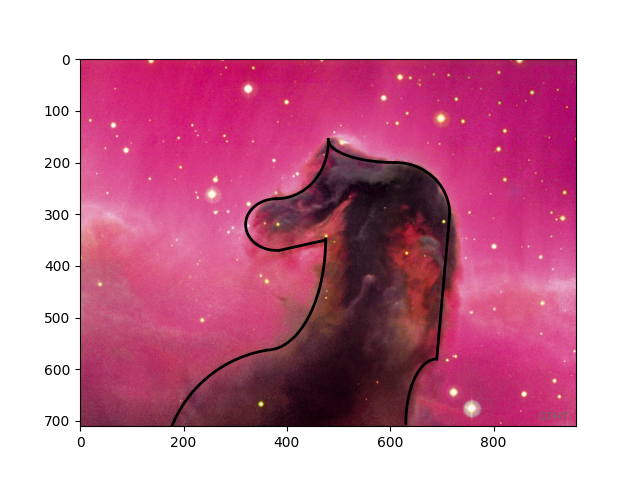
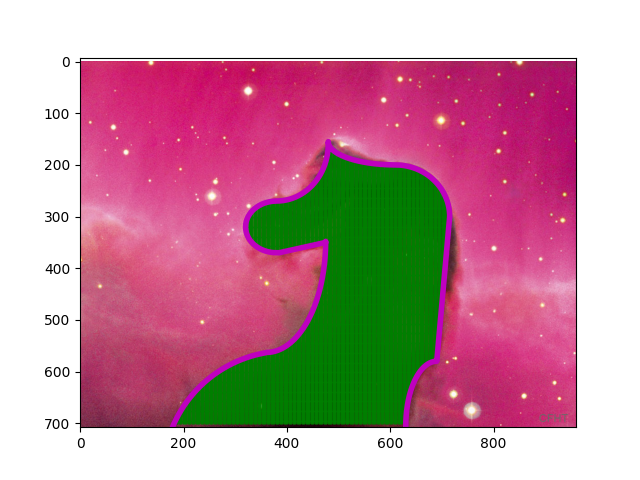
gjgjhgj

diff --git a/kffo.py b/kffo.py
@@ -1,55 +1,104 @@
-import matplotlib.pyplot as plt 
-import numpy as np 
- 
-img = plt.imread('H.jpg') 
-fig, ax = plt.subplots() 
-ax.imshow(img) 
- 
- 
-t = np.linspace(np.pi-np.pi/8, np.pi/1.8, 100) 
-x = 400 + 240 * np.cos(t) 
-y = 800 - 240 * np.sin(t) 
-ax.plot(x, y, '-', lw=2, color = 'k') 
- 
- 
-t =  np.linspace(3 * np.pi/2, 2 * np.pi, 200) 
-x = 360 + 115 * np.cos(t) 
-y = 348 - 215 * np.sin(t) 
-ax.plot(x, y, '-', lw=2, color = 'k') 
- 
- 
-x = [475, 385] 
-y = [350, 370] 
-ax.plot(x, y, '-', lw=2, color = 'k') 
- 
-t =  np.linspace(np.pi/2, 3 * np.pi/2, 200) 
-x = 380 + 60 * np.cos(t) 
-y = 320 - 50 * np.sin(t) 
-ax.plot(x, y, '-', lw=2, color = 'k') 
- 
-t =  np.linspace(3 * np.pi/2, 2 * np.pi, 200) 
-x = 380 + 100 * np.cos(t) 
-y = 160 - 110 * np.sin(t) 
-ax.plot(x, y, '-', lw=2, color = 'k') 
- 
-t =  np.linspace(np.pi, 3 * np.pi/2, 200) 
-x = 610 + 130 * np.cos(t) 
-y = 155 - 45 * np.sin(t) 
-ax.plot(x, y, '-', lw=2, color = 'k') 
- 
-t =  np.linspace(2 * np.pi, 5 * np.pi/2, 200) 
-x = 610 + 105 * np.cos(t) 
-y = 300 - 100 * np.sin(t) 
-ax.plot(x, y, '-', lw=2, color = 'k') 
- 
-x = [715, 690] 
-y = [300, 580] 
-ax.plot(x, y, '-', lw=2, color = 'k') 
- 
-t =  np.linspace(np.pi/2, np.pi,  200) 
-x = 690 + 60 * np.cos(t) 
-y = 705 - 125 * np.sin(t) 
-ax.plot(x, y, '-', lw=2, color = 'k') 
- 
- 
+import matplotlib.pyplot as plt
+import numpy as np
+from scipy import interpolate
+import shapely.geometry as geom
+
+img = plt.imread('H.jpg')
+fig, ax = plt.subplots()
+ax.imshow(img)
+
+t0 = np.linspace(np.pi-np.pi/8, np.pi/1.8, 100)
+x0 = 400 + 240 * np.cos(t0)
+y0 = 800 - 240 * np.sin(t0)
+ax.plot(x0, y0, '-', lw=2, color = 'k')
+
+
+t1 =  np.linspace(3 * np.pi/2, 2 * np.pi, 200)
+x1 = 360 + 115 * np.cos(t1)
+y1 = 348 - 215 * np.sin(t1)
+ax.plot(x1, y1, '-', lw=2, color = 'k')
+
+x = np.append(x0, x1)
+y = np.append(y0, y1)
+
+
+x2 = [475, 385]
+y2 = [350, 370]
+ax.plot(x2, y2, '-', lw=2, color = 'k')
+
+x = np.append(x, x2)
+y = np.append(y, y2)
+
+t3 =  np.linspace(3 * np.pi/2, np.pi/2, 200)
+x3 = 380 + 60 * np.cos(t3)
+y3 = 320 - 50 * np.sin(t3)
+ax.plot(x3, y3, '-', lw=2, color = 'k')
+
+x = np.append(x, x3)
+y = np.append(y, y3)
+
+t4 =  np.linspace (3 * np.pi/2, 2 * np.pi,200)
+x4 = 380 + 100 * np.cos(t4)
+y4 = 160 - 109.9 * np.sin(t4)
+ax.plot(x4, y4, '-', lw=2, color = 'k')
+
+x = np.append(x, x4)
+y = np.append(y, y4)
+
+t5 =  np.linspace( np.pi,  3 * np.pi/2,200)
+x5 = 610 + 130 * np.cos(t5)
+y5= 155 - 45 * np.sin(t5)
+ax.plot(x5, y5, '-', lw=2, color = 'k')
+
+x = np.append(x, x5)
+y = np.append(y, y5)
+
+t6 =  np.linspace( 5 * np.pi/2, 2 * np.pi,200)
+x6 = 610.05 + 105 * np.cos(t6)
+y6 = 300 - 100 * np.sin(t6)
+ax.plot(x6, y6, '-', lw=2, color = 'k')
+
+x = np.append(x, x6)
+y = np.append(y, y6)
+
+x7 = [715, 690]
+y7 = [300, 580]
+ax.plot(x7, y7, '-', lw=2, color = 'k')
+
+x = np.append(x, x7)
+y = np.append(y, y7)
+
+
+t8 =  np.linspace(np.pi/2, np.pi,  200)
+x8 = 690.05 + 60 * np.cos(t8)
+y8 = 705 - 125 * np.sin(t8)
+ax.plot(x8, y8, '-', lw=2, color = 'k')
+
+x = np.append(x, x8)
+y = np.append(y, y8)
+
+
+spline_coords, figure_spline_part = interpolate.splprep([x, y], s=0)
+figure_spline_part_manual = np.arange(0, 0.5, 0.01)
+spline_curve = interpolate.splev(figure_spline_part, spline_coords)
+
+curve_coords = []
+for i in range(len(spline_curve[0])):
+    curve_coords.append([spline_curve[0][i], spline_curve[1][i]])
+
+polygon = geom.Polygon(curve_coords)
+points_number_per_side = 400
+x_pictures_limits = [0, 1000]
+y_pictures_limits = [700, 0]
+
+for x_point_coord in np.linspace(*x_pictures_limits, points_number_per_side):
+    for y_point_coord in np.linspace(*y_pictures_limits, points_number_per_side):
+        p = geom.Point(x_point_coord, y_point_coord)
+        if p.within(polygon):
+            plt.plot(x_point_coord, y_point_coord, 'go', ms = 0.5)
+
+
+plt.plot(spline_curve[0], spline_curve[1], 'm', lw=4)
+plt.axis('equal')
+plt.ylim(700, 0)
 plt.savefig('horse.png')

diff --git a/lec_1_calarfields.py b/lec_1_calarfields.py
@@ -1,0 +1,63 @@
+import matplotlib.pyplot as plt
+import numpy as np
+from scipy import interpolate
+import shapely.geometry as geom
+
+
+phi = np.linspace(0, 2*np.pi, 100)
+R = 1
+array_x = R * np.cos(phi)
+array_y = R * np.sin(phi)
+
+spline_coords, figure_spline_part = interpolate.splprep([array_x, array_y], s=0)
+spline_curve = interpolate.splev(figure_spline_part, spline_coords)
+
+curve_coords = []
+for i in range(len(spline_curve[0])):
+    curve_coords.append([spline_curve[0][i], spline_curve[1][i]])
+
+polygon = geom.Polygon(curve_coords)
+points_numper_per_side = 100
+x_pictures_limits = [-1.0, 1.0]
+y_pictures_limits = [-1.0, 1.0]
+
+points_coords = []
+for x_point_coord in np.linspace(*x_pictures_limits, points_numper_per_side):
+    for y_point_coord in np.linspace(*y_pictures_limits, points_numper_per_side):
+        p = geom.Point(x_point_coord, y_point_coord)
+        if p.within(polygon):
+            points_coords.append(x_point_coord)
+            points_coords.append(y_point_coord)
+
+x_p = np.array(points_coords[0::2])
+y_p = np.array(points_coords[1::2])
+
+def bell_function(x, y, intensity=1, dec_rate=[0.5, 0.5]):
+    scalar_func = intensity * np.exp(- dec_rate[0]*x**2 - dec_rate[1]*y**2) 
+    return scalar_func
+
+intensity_centerums_x = [-0.5, 0.5, -0.4, 0.0, 0.4]
+intensity_centerums_y = [0.3, 0.3, -0.5, -0.7, -0.5]
+intensity_values = [1.7, 1.7, 1, 0.7, 1]
+
+def scalar_function(x, y, int_cen_x, int_cen_y, int_vel):
+    scalar_field = 0.0
+    for i in range(0, len(int_cen_x)):
+        scalar_field += int_vel[i] * bell_function(x-int_cen_x[i], y-int_cen_y[i], 30, [5, 5])
+    return scalar_field
+
+scalar_fields = []
+for i in range(0, len(x_p)):
+    calculate = scalar_function(x_p[i], y_p[i], intensity_centerums_x, 
+                                intensity_centerums_y, intensity_values)
+    scalar_fields.append(calculate)
+
+fig, ax = plt.subplots()
+sc_plot = ax.scatter(x_p, y_p, c=scalar_fields)
+ax.set_ylabel('Координата Х, м')
+ax.set_xlabel('Координата Y, м')
+
+cbar = fig.colorbar(sc_plot)
+cbar.set_label("Комбинированное скалярное поле")
+
+plt.savefig('complex_scalar_fields.png')

diff --git a/lec_7_bell.fanction.py b/lec_7_bell.fanction.py
@@ -1,0 +1,52 @@
+import matplotlib.pyplot as plt
+import numpy as np
+from scipy import interpolate
+import shapely.geometry as geom
+
+
+
+phi = np.linspace(0, 2*np.pi, 100)
+
+R = 1
+array_x = R *np.cos(phi)
+array_y = R *np.sin(phi)
+
+spline_coords, figure_spline_part = interpolate.splprep([array_x, array_y], s=0)
+spline_curve = interpolate.splev(figure_spline_part, spline_coords)
+
+curve_coords = []
+points_coords = []
+
+for i in range(len(spline_curve[0])):
+    curve_coords.append([spline_curve[0][i], spline_curve[1][i]])
+
+polygon = geom.Polygon(curve_coords)
+points_number_per_side = 100
+x_pictures_limits = [-1, 1]
+y_pictures_limits = [-1, 1]
+
+
+for x_point_coord in np.linspace(*x_pictures_limits, points_number_per_side):
+    for y_point_coord in np.linspace(*y_pictures_limits, points_number_per_side):
+        p = geom.Point(x_point_coord, y_point_coord)
+        if p.within(polygon):
+            points_coords.append(x_point_coord)
+            points_coords.append(y_point_coord)
+
+
+x_p = np.array(points_coords[0::2])
+y_p = np.array(points_coords[1::2])
+def bell_function(x, y, intensity = 1, dec_rate = [0.5, 0.5]):
+    scalar_field = intensity * np.exp(-dec_rate[0] *x**2 - dec_rate[1] * y**2)
+    return scalar_field
+
+fig, ax = plt.subplots()
+
+sc_plot = ax.scatter(x_p, y_p, c = bell_function(x_p, y_p, 5, [0.5, 0.5]))
+ax.set_xlabel('координата x, м')
+ax.set_ylabel('координата y, м')
+
+cbar = fig.colorbar(sc_plot)
+
+cbar.set_label('Инртенсивность скаляярного поля')
+plt.savefig('dich2.png')
